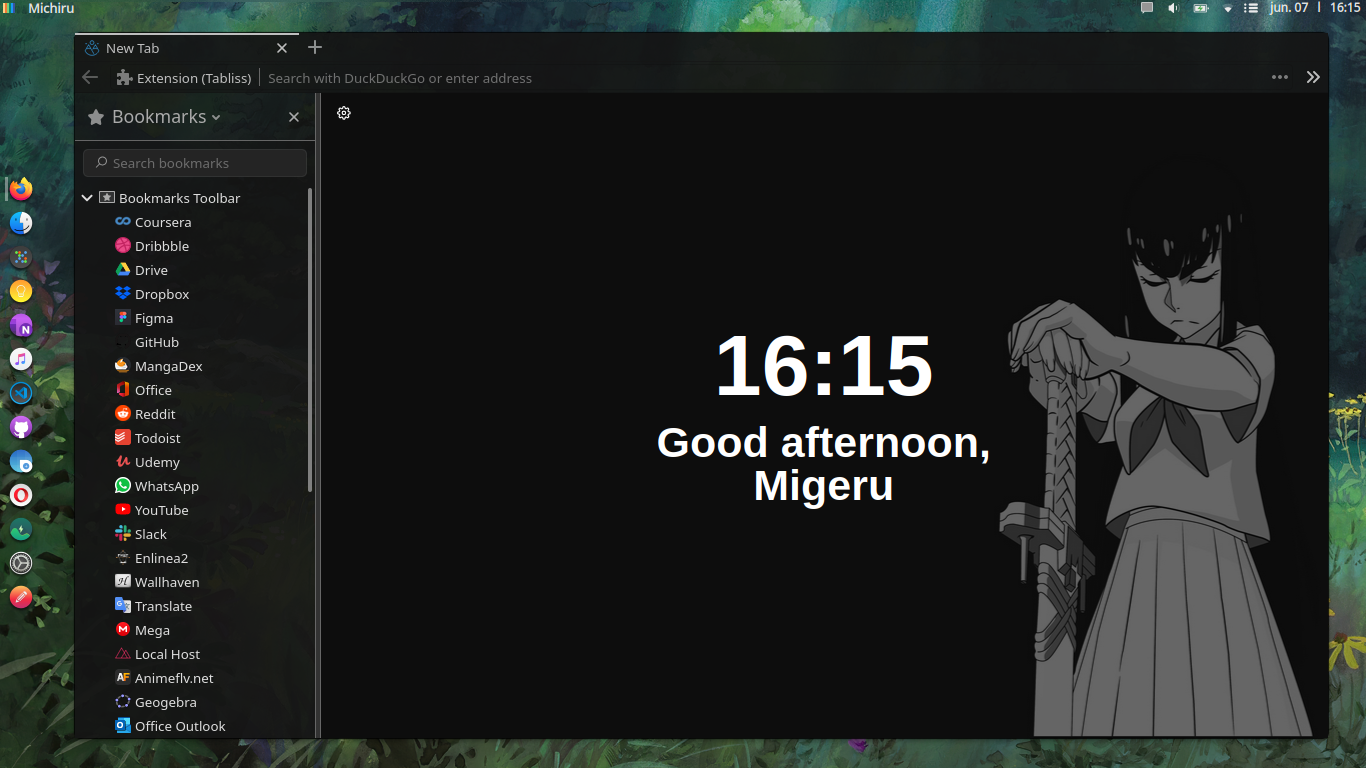
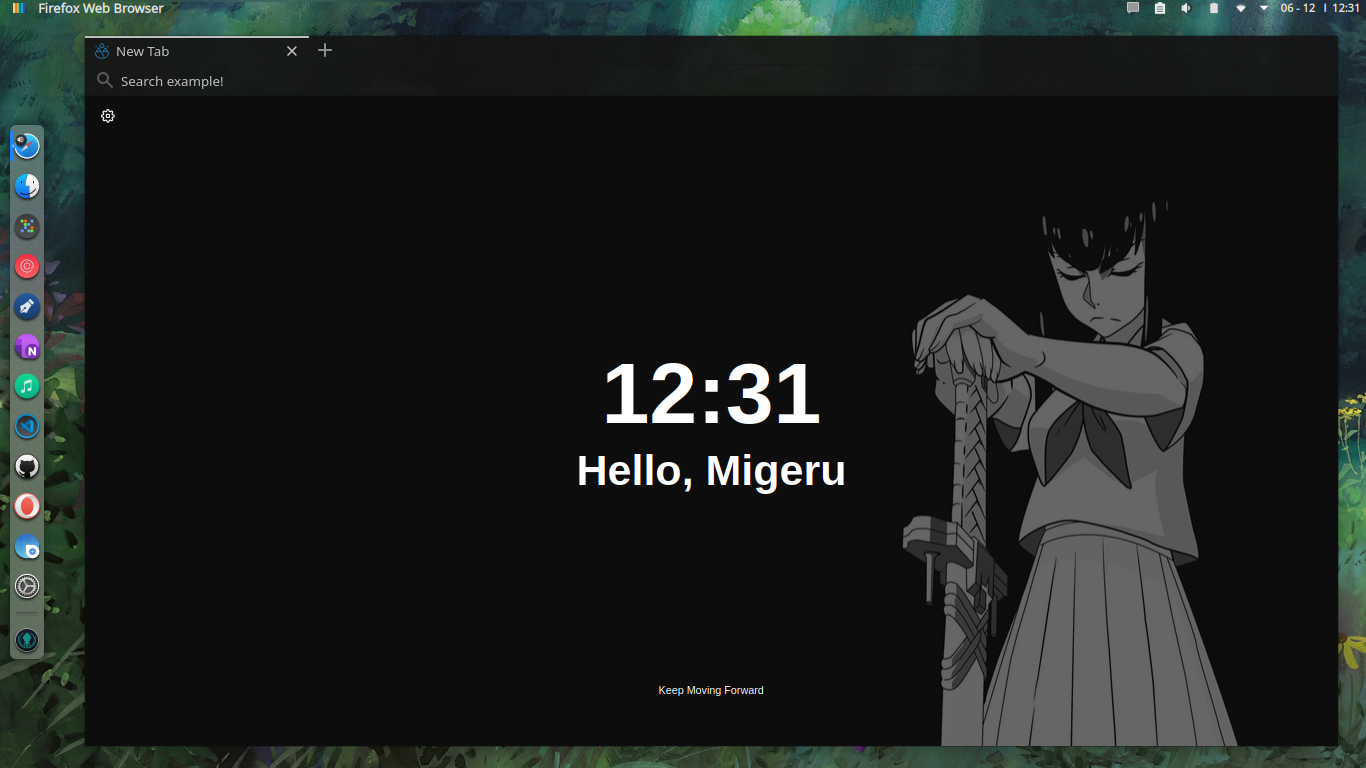
Readme one

Changed region(s): [[0.3075, 0.0, 1.0, 1.0], [0.0, 0.0, 0.3997, 1.0], [0.4919, 0.875, 0.5534, 0.9062]]

diff --git a/README.md b/README.md
@@ -1,10 +1,22 @@
 # Transparent-Firefox-and-Thunderbird-
+
 A theme for Firefox and Thunderbird completly transparent
 
 ## Firefox:
 
 ![](https://github.com/MiguelRAvila/Transparent-Firefox-and-Thunderbird-/blob/master/Images/Firefox.png)
 
-## Thunderbird: 
+### Installation:
+
+1. In the searchbar type `about:config`
+2. A diolog will be shown to you and press the `I accept the risk` button.
+3. Search for **`toolkit.legacyUserProfileCustomizations.stylesheets`**, **`layers.acceleration.force-enabled`**, **`gfx.webrender.all`**, and **`svg.context-properties.content.enabled`**. Change them to **True**
+4. Go to your Firefox profile located in `$HOME/.mozilla/firefox/XXXXXXX.default-release/`.
+5. Create a folder and name it **`chrome`** (with lowercase) and then paste the `userChrome.css` and `userContent.css` files into it. 
+6. E N J O Y 💜
+
+![](https://github.com/MiguelRAvila/Transparent-Firefox-and-Thunderbird-/blob/master/Images/Firefox_1.png)
+
+## Thunderbird:
 
 ![](https://github.com/MiguelRAvila/Transparent-Firefox-and-Thunderbird-/blob/master/Images/Thunderbird.png)
